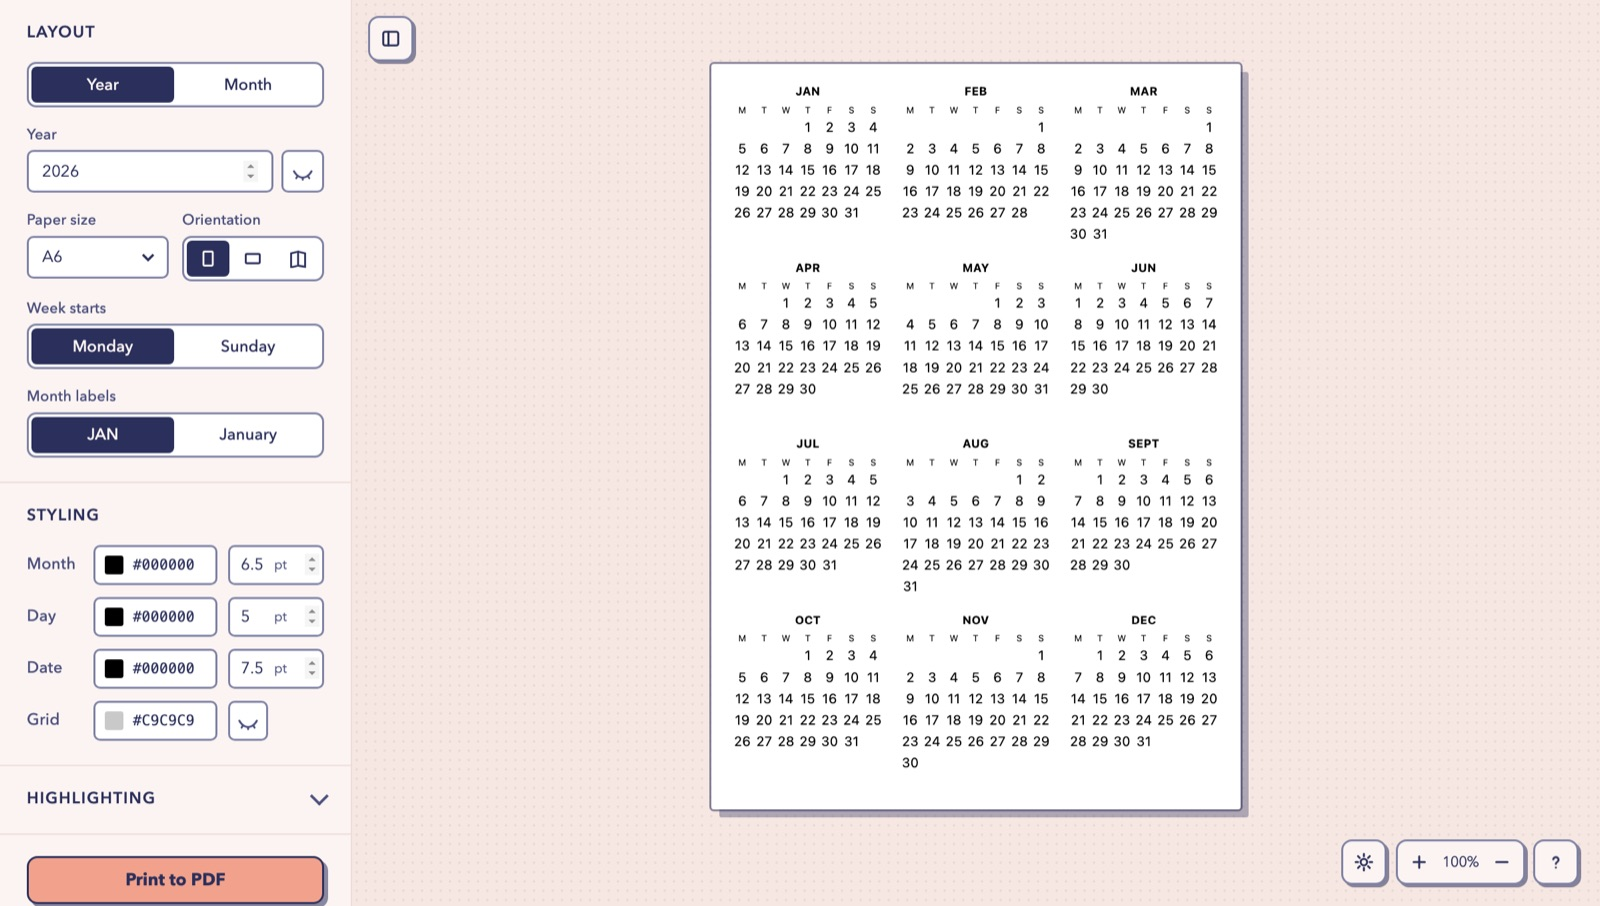
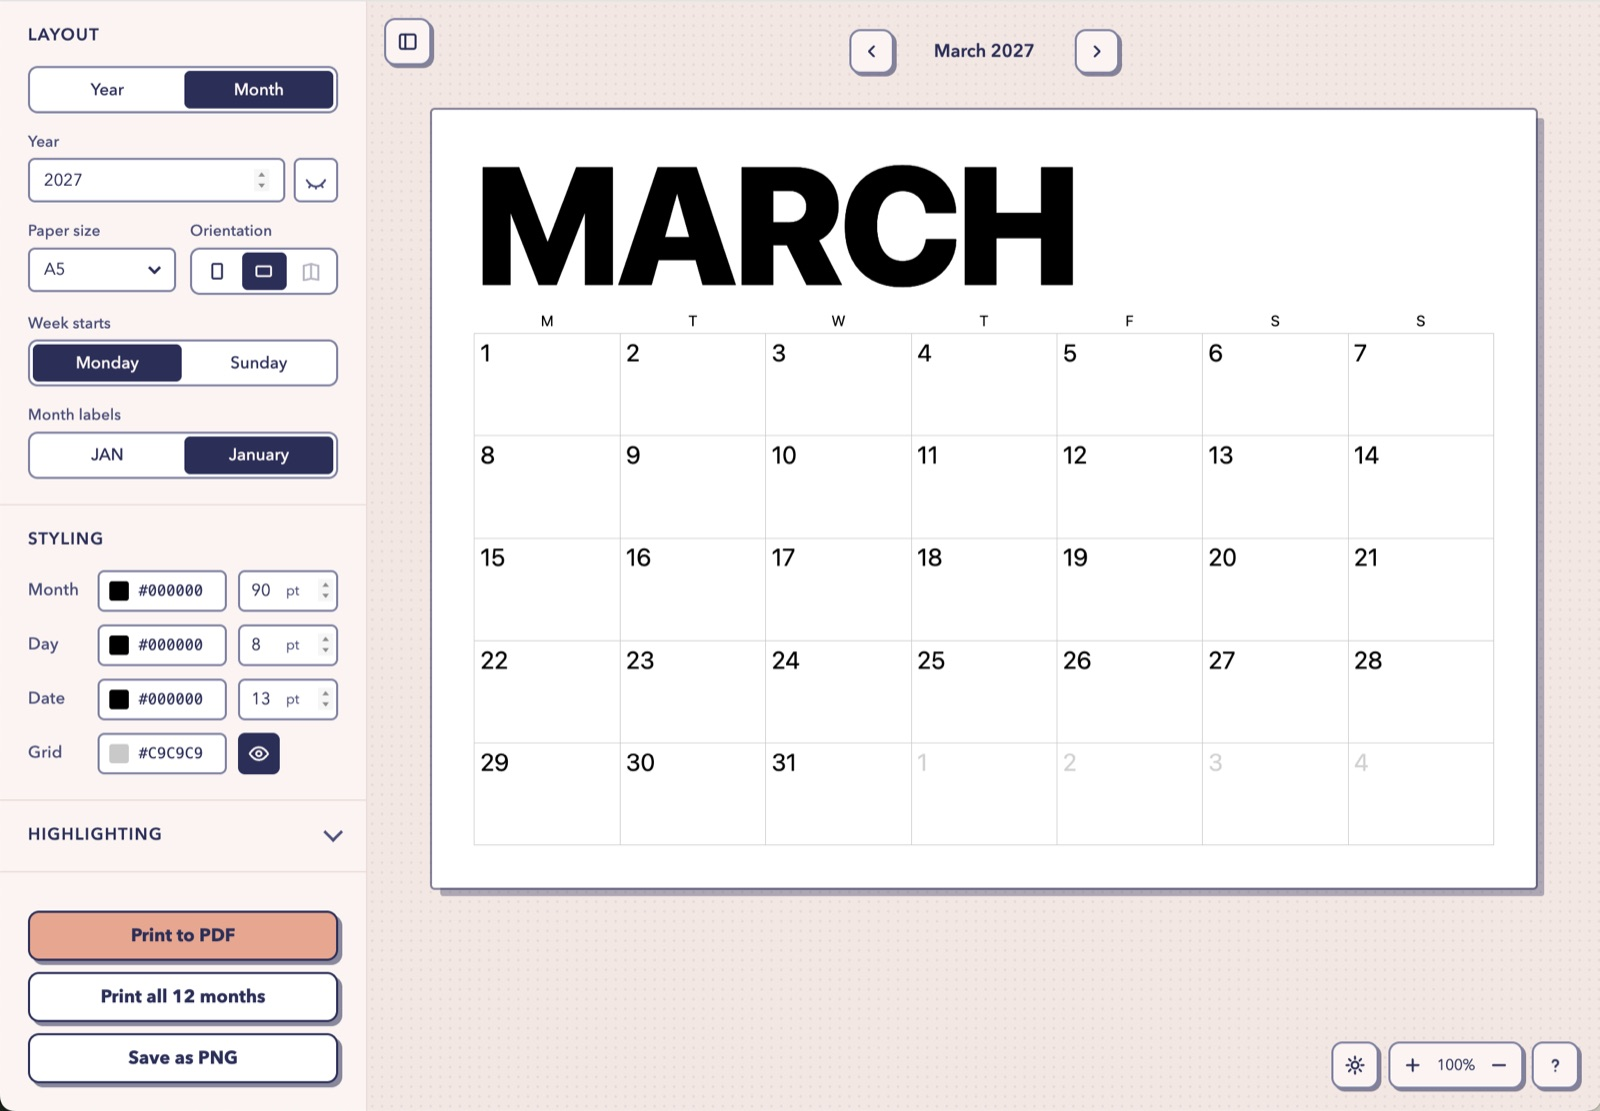
Calendar Generator: new month-view thumbnail and alt text

diff --git a/src/site/notes/Calendar Generator.md b/src/site/notes/Calendar Generator.md
@@ -3,7 +3,7 @@ title: Calendar Generator
 publish: true
 section: tools
 date: 2026-11-21
-image: "[[assets/tool-calendar.jpg|The calendar maker, showing a year on an A6 page]]"
+image: "[[assets/tool-calendar.jpg|The calendar generator, showing a month calendar for March 2027]]"
 link: /calendar/
 description: Make and customise your own printable yearly or monthly calendar. I put these on my fridge and in my journal to help me plan.
 ---
